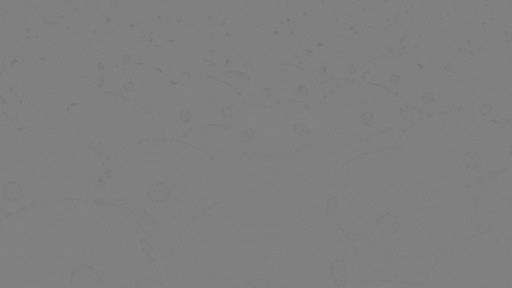
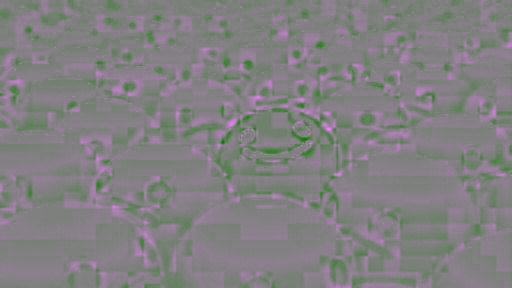
TP2 execution

diff --git a/TP2/mainTp2.cpp b/TP2/mainTp2.cpp
@@ -248,7 +248,7 @@ void distortionMap(const vector<Mat> & imgSrc, const vector<Mat> & imgDeg, Mat &
 void computeDCT(const vector<Mat> & imgIn, vector<Mat> & imgOut, bool inverse = false)
 {
     for(int i = 0; i < 3; i++) {
-        Mat dctRes;
+        Mat dctRes(imgIn[i].size(), CV_32FC1);
 
         if(!inverse) {
             dct(imgIn[i], dctRes);
@@ -462,7 +462,6 @@ void visualizeDCTHistograms(vector<Mat> & imgIn) {
         computeHistogram(norm_0_255(imgIn[k]), hist);
         displayHistogram(hist);
 
-        // #TODO les coeffs sont signés, il faudra modifier le calcul de H
         std::cout << "Entropy DCT canal " << toString(k) << " : " << computeEntropy(imgIn[k]) << '\n';
     }
 }
@@ -496,108 +495,200 @@ int main(int argc, char** argv){
 	    return -1;
 	}
 
-	std::cout<< "--------Récupération Image--------" << std::endl;
-
-    Mat inputImage;
-    inputImage = imread(argv[1], CV_LOAD_IMAGE_COLOR);
-    if(!inputImage.data ) { // Check for invalid input
+    Mat src;
+    src = imread(argv[1], CV_LOAD_IMAGE_COLOR);
+    if(!src.data ) { // Check for invalid input
         std::cout <<  "Could not open or find the image " << argv[1] << std::endl;
         waitKey(0); // Wait for a keystroke in the window
-     }
-
-	std::cout<< "-------- Compute : DCT --------" << std::endl;
+    }
 
     // Convertion de l'image source de uchar vers float 32 bits
-    Mat img32F(inputImage.size(), CV_32F);
-    inputImage.convertTo(img32F, CV_32F);
+    Mat floatSrc(src.size(), CV_32FC3);
+    src.convertTo(floatSrc, CV_32FC3);
 
     // Conversion de BGR float 32 bits vers YCrCb float 32 bits
-    Mat imgYCrCb32F(img32F.size(), CV_32F);
-    BGRtoYCrCb(img32F, imgYCrCb32F);
+    Mat img(src.size(), CV_32FC3);
+    BGRtoYCrCb(floatSrc, img);
 
     // Decomposition des canaux
-    std::vector<Mat> imgYCrCb32FSplit;
-    split(imgYCrCb32F, imgYCrCb32FSplit);
+    std::vector<Mat> imgVector;
+    split(img, imgVector);
 
-    // Affichage du canal Y
-    // imshow("Canal Y", norm_0_255(imgYCrCb32FSplit[0]));
-    // waitKey();
+    std::cout<< "-------- TP2 : 2D Discrete Cosine Transform --------" << std::endl;
+    std::cout << "1. DCT and inverse DCT" << std::endl;
+    std::cout << "2. DCT and inverse DCT with nullified coefficients" << std::endl;
+    std::cout << "3. 8x8 block DCT (and inverse)" << std::endl;
+    std::cout << "4. 8x8 block DCT (and inverse) with simple binary mask" << std::endl;
+    std::cout << "5. 8x8 block DCT (and inverse) with JPEG ponderation matrix" << std::endl;
+    std::cout << "Choose an action to perform : ";
 
-    // Calcul de la DCT
-    std::vector<Mat> dctImgYCrCb32FSplit;
-    computeDCT(imgYCrCb32FSplit, dctImgYCrCb32FSplit);
+    int choice;
+    std::cin >> choice;
 
-    // Affichage des coeffs de la DCT
-    // visualizeDCT(dctImgYCrCb32FSplit);
+    switch (choice) {
+        case 1:
+        {
+            std::vector<Mat> dctVector;
+            computeDCT(imgVector, dctVector);
+            visualizeDCT(dctVector);
+            visualizeDCTHistograms(dctVector);
 
-    // Annulation de coefficients
-    std::vector<Mat> modDctImgYCrCb32FSplit;
-    nullifyCoefficients(dctImgYCrCb32FSplit, modDctImgYCrCb32FSplit, 1);
+            std::vector<Mat> idctVector;
+            computeInverseDCT(dctVector, idctVector);
 
-    // Affichage de la nouvelle DCT
-    // visualizeDCT(modDctImgYCrCb32FSplit);
+            std::cout << "EQM : " << eqm(imgVector[0], idctVector[0]) << std::endl;
+            std::cout << "PSNR : " << psnr(imgVector[0], idctVector[0]) << std::endl;
 
-    // Calcul de la DCT inverse
-    std::vector<Mat> iModDctImgYCrCb32FSplit;
-    computeInverseDCT(modDctImgYCrCb32FSplit, iModDctImgYCrCb32FSplit);
+            Mat finalImg;
+            merge(idctVector, finalImg);
+            YCrCbtoBGR(finalImg, finalImg);
+            finalImg.convertTo(finalImg, CV_8UC3);
+            imshow("IDCT", finalImg);
+            waitKey();
 
-    // Affichage du canal Y de la DCT inverse
-    // imshow("Canal Y inverse", norm_0_255(iModDctImgYCrCb32FSplit[0]));
-    // waitKey();
+            dctVector.clear();
+            idctVector.clear();
+            finalImg.release();
 
-    // Fusion des canaux YCrCb
-    Mat iModDctImgYCrCb32F;
-    merge(iModDctImgYCrCb32FSplit, iModDctImgYCrCb32F);
+            break;
+        }
 
-    // Conversion de YCrCb vers BGR (float 32 bits)
-    Mat iModDctImgBGR32F;
-    YCrCbtoBGR(iModDctImgYCrCb32F, iModDctImgBGR32F);
+        case 2:
+        {
+            std::vector<Mat> dctVector;
+            computeDCT(imgVector, dctVector);
 
-    // Conversion en uchar pour l'affichage
-    Mat iModDctImg;
-    iModDctImgBGR32F.convertTo(iModDctImg, CV_8UC3);
+            std::cout << "Which mask do you want to use ?" << std::endl;
+            std::cout << "1. Bottom right hand corner" << std::endl;
+            std::cout << "2. Right half" << std::endl;
+            std::cout << "3. Bottom half" << std::endl;
+            std::cout << "4. Bottom left hand corner" << std::endl;
 
-    // Affichage de la DCT inverse
-    // imshow("IDCT", iModDctImg);
-	// waitKey();
+            int maskIndex;
+            std::cin >> maskIndex;
 
-    std::vector<Mat> imgBlocDctYCrCb32FSplit;
-    computeBlockDCT(imgYCrCb32FSplit, imgBlocDctYCrCb32FSplit);
+            std::vector<Mat> modDdctVector;
+            nullifyCoefficients(dctVector, modDdctVector, maskIndex);
 
-    std::vector<Mat> imgMaskBlocDctYCrCb32FSplit;
-    applyBlockTransform(imgBlocDctYCrCb32FSplit, imgMaskBlocDctYCrCb32FSplit);
+            visualizeDCT(modDdctVector);
+            visualizeDCTHistograms(modDdctVector);
 
-    // Affichage de la DCT bloc
-    visualizeDCT(imgMaskBlocDctYCrCb32FSplit);
+            std::vector<Mat> idctVector;
+            computeInverseDCT(modDdctVector, idctVector);
 
-    std::vector<Mat> invTrans;
-    applyInverseBlockTransform(imgMaskBlocDctYCrCb32FSplit, invTrans);
+            std::cout << "EQM : " << eqm(imgVector[0], idctVector[0]) << std::endl;
+            std::cout << "PSNR : " << psnr(imgVector[0], idctVector[0]) << std::endl;
 
-    // Calcul de la DCT bloc inverse
-    std::vector<Mat> imgBlocIDctImgYCrCb32FSplit;
-    computeInverseBlockDCT(invTrans, imgBlocIDctImgYCrCb32FSplit);
+            Mat finalImg;
+            merge(idctVector, finalImg);
+            YCrCbtoBGR(finalImg, finalImg);
+            finalImg.convertTo(finalImg, CV_8UC3);
+            imshow("IDCT", finalImg);
+            waitKey();
 
-    // Affichage du canal Y de la DCT bloc inverse
-    imshow("Canal Y inverse", norm_0_255(imgBlocIDctImgYCrCb32FSplit[0]));
-    waitKey();
+            dctVector.clear();
+            idctVector.clear();
+            finalImg.release();
 
-    std::cout << "EQM : " << eqm(imgYCrCb32FSplit[0], imgBlocIDctImgYCrCb32FSplit[0]) << '\n';
-    std::cout << "PSNR : " << psnr(imgYCrCb32FSplit[0], imgBlocIDctImgYCrCb32FSplit[0]) << '\n';
+            break;
+        }
 
-    // Fusion des canaux YCrCb
-    Mat test;
-    merge(imgBlocIDctImgYCrCb32FSplit, test);
+        case 3:
+        {
+            std::vector<Mat> dctVector;
+            computeBlockDCT(imgVector, dctVector);
+            visualizeDCT(dctVector);
+            visualizeDCTHistograms(dctVector);
 
-    // Conversion de YCrCb vers BGR (float 32 bits)
-    Mat test2;
-    YCrCbtoBGR(test, test2);
+            std::vector<Mat> idctVector;
+            computeInverseBlockDCT(dctVector, idctVector);
 
-    // Conversion en uchar pour l'affichage
-    Mat test3;
-    test2.convertTo(test3, CV_8UC3);
+            std::cout << "EQM : " << eqm(imgVector[0], idctVector[0]) << std::endl;
+            std::cout << "PSNR : " << psnr(imgVector[0], idctVector[0]) << std::endl;
 
-    imshow("IDCT", test3);
-    waitKey();
+            Mat finalImg;
+            merge(idctVector, finalImg);
+            YCrCbtoBGR(finalImg, finalImg);
+            finalImg.convertTo(finalImg, CV_8UC3);
+            imshow("IDCT", finalImg);
+            waitKey();
+
+            dctVector.clear();
+            idctVector.clear();
+            finalImg.release();
+
+            break;
+        }
+
+        case 4:
+        {
+            std::vector<Mat> dctVector;
+            computeBlockDCT(imgVector, dctVector);
+
+            std::vector<Mat> modDdctVector;
+            applyBlockMask(dctVector, modDdctVector);
+
+            visualizeDCT(modDdctVector);
+            visualizeDCTHistograms(modDdctVector);
+
+            std::vector<Mat> idctVector;
+            computeInverseBlockDCT(modDdctVector, idctVector);
+
+            std::cout << "EQM : " << eqm(imgVector[0], idctVector[0]) << std::endl;
+            std::cout << "PSNR : " << psnr(imgVector[0], idctVector[0]) << std::endl;
+
+            Mat finalImg;
+            merge(idctVector, finalImg);
+            YCrCbtoBGR(finalImg, finalImg);
+            finalImg.convertTo(finalImg, CV_8UC3);
+            imshow("IDCT", finalImg);
+            waitKey();
+
+            dctVector.clear();
+            idctVector.clear();
+            finalImg.release();
+
+            break;
+        }
+
+        case 5:
+        {
+            std::vector<Mat> dctVector;
+            computeBlockDCT(imgVector, dctVector);
+
+            std::vector<Mat> modDdctVector;
+            applyBlockTransform(dctVector, modDdctVector);
+
+            visualizeDCT(modDdctVector);
+            visualizeDCTHistograms(modDdctVector);
+
+            std::vector<Mat> iModDdctVector;
+            applyInverseBlockTransform(modDdctVector, iModDdctVector);
+
+            std::vector<Mat> idctVector;
+            computeInverseBlockDCT(iModDdctVector, idctVector);
+
+            std::cout << "EQM : " << eqm(imgVector[0], idctVector[0]) << std::endl;
+            std::cout << "PSNR : " << psnr(imgVector[0], idctVector[0]) << std::endl;
+
+            Mat finalImg;
+            merge(idctVector, finalImg);
+            YCrCbtoBGR(finalImg, finalImg);
+            finalImg.convertTo(finalImg, CV_8UC3);
+            imshow("IDCT", finalImg);
+            waitKey();
+
+            dctVector.clear();
+            idctVector.clear();
+            finalImg.release();
+
+            break;
+        }
+
+        default:
+            std::cout << "This is not a valid action. Please try again." << std::endl;
+            break;
+    }
 
     return 0;
 }
